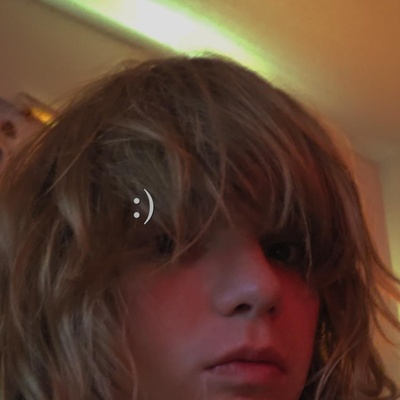
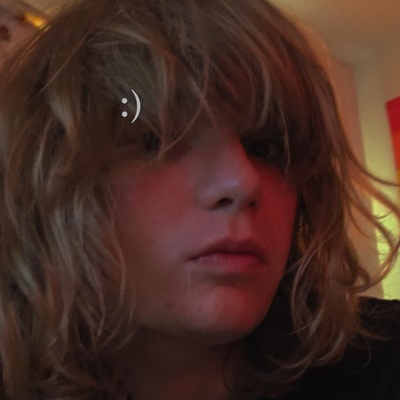
Fix pfp framing to center full head and chin, remove line break

diff --git a/README.md b/README.md
@@ -5,8 +5,6 @@
 **Founder, CTO & Chair @ [Lorikeet Security](https://lorikeetsecurity.com)**  
 Red Team Operator • Penetration Tester • Web Developer • Startup Founder
 
-<br clear="left"/>
-
 ---
 - Current CEO, CTO & Chair of Lorikeet Security
 - Senior Fractional Cyber Consultant @ Assura Inc.
